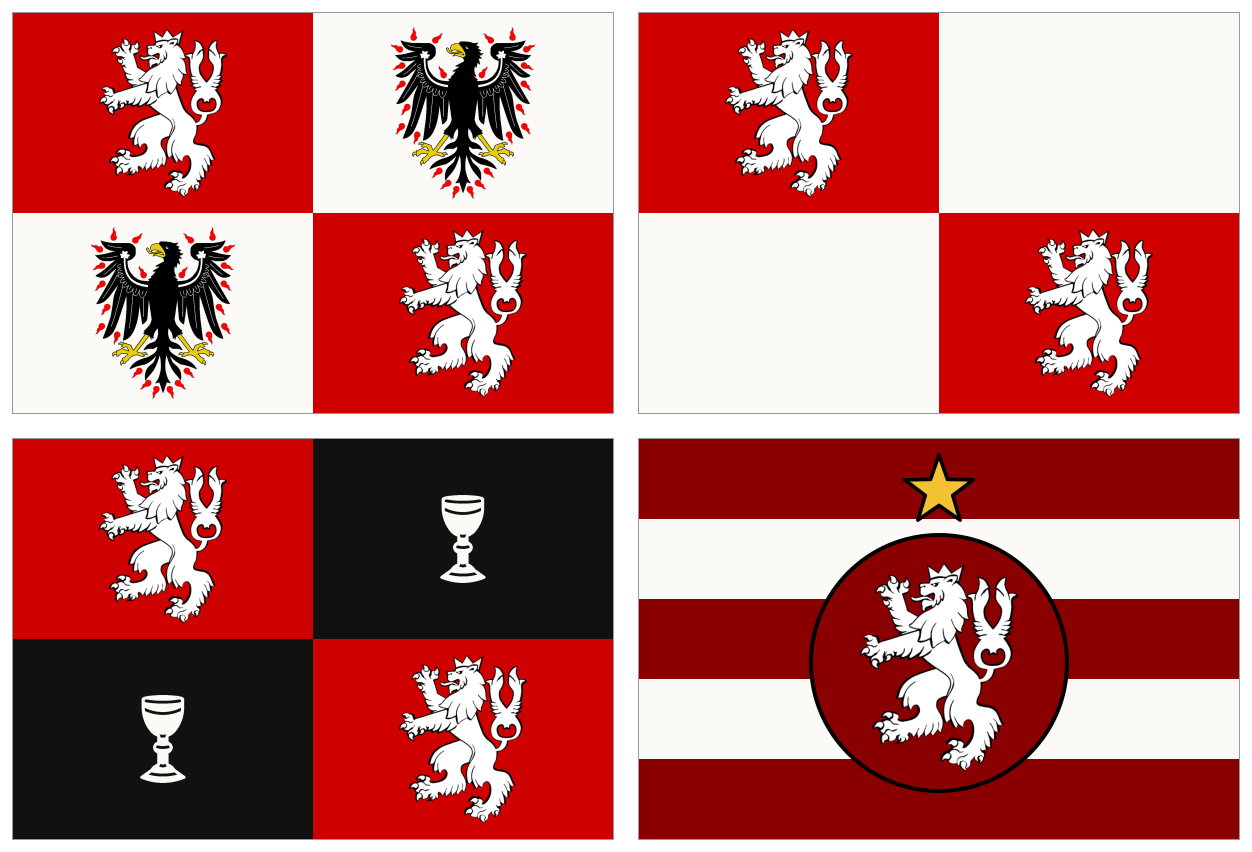
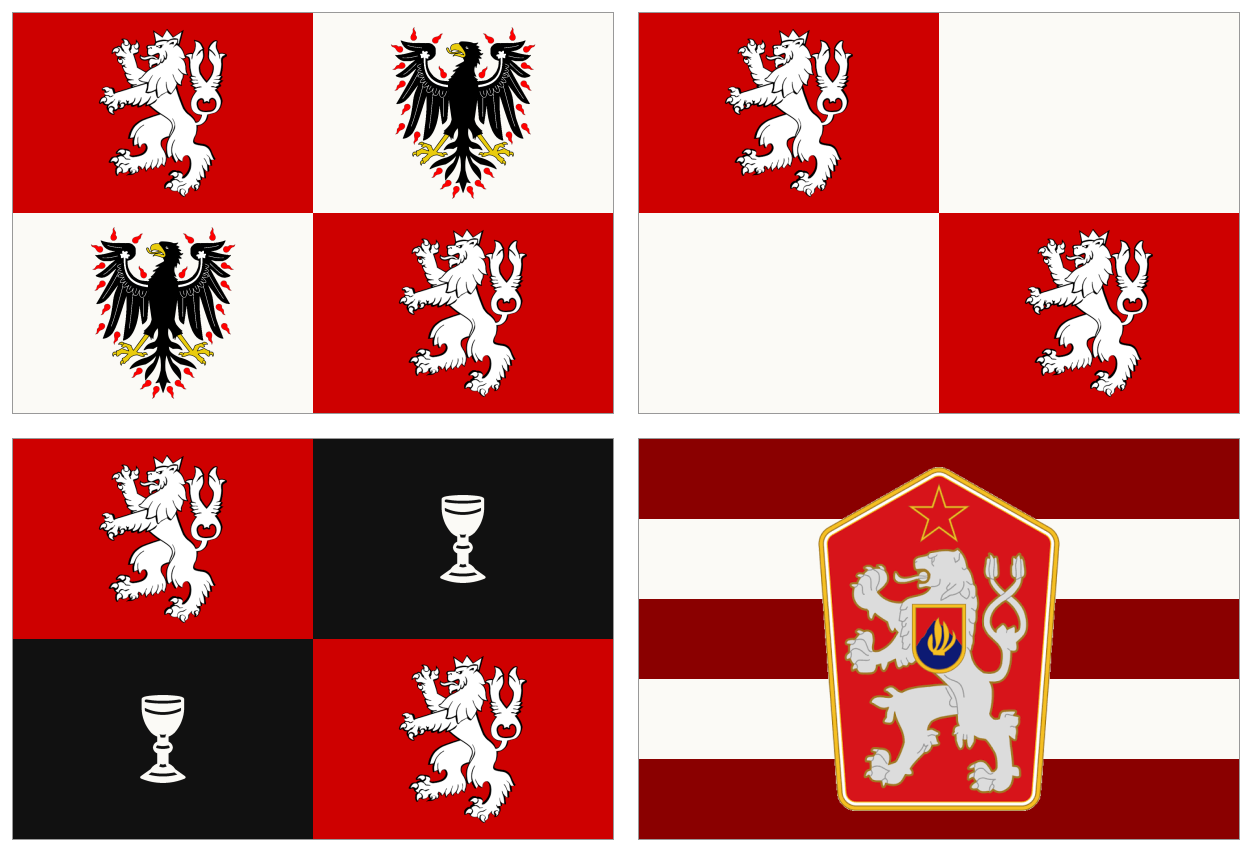
Czechy rewolucyjne: godło ludowe na pasach
Claude-Session: https://claude.ai/code/session_01PNyJEgjZDVeUSFrp2WbnmN

Changed region(s): [[0.623, 0.5188, 0.8722, 0.9765]]

diff --git a/gfx_koncepty/flagi_czechy/generuj_flagi.py b/gfx_koncepty/flagi_czechy/generuj_flagi.py
@@ -7,6 +7,7 @@ EMB=os.path.join(HERE,'..','emblematy')
 def b64(n): return base64.b64encode(open(os.path.join(EMB,n),'rb').read()).decode()
 LEW=b64('lew_czeski.png'); LW,LH=287,376
 ORZ=b64('orzel_swietowaclawski.png'); OW,OH=569,675
+GL=b64('godlo_czeskie_ludowe.png'); GLW,GLH=373,532
 KM=b64('kielich_maska_s.png'); KW,KH=300,581
 RED='#ce0000'; WHITE='#fbfaf6'; BLACK='#111111'
 def svg(b): return f'<svg xmlns="http://www.w3.org/2000/svg" viewBox="0 0 300 200" width="1536" height="1024">{b}</svg>'
@@ -33,8 +34,8 @@ F={
  # Teokracja husycka (Praga, kolebka Husa): szachownica z lwami na czerwieni, a zamiast orła biały kielich na czerni
  '3_teokracja': svg(kwadraty()+lew(75,50,84)+lew(225,150,84)+f'<rect x="150" width="150" height="100" fill="{BLACK}"/><rect y="100" width="150" height="100" fill="{BLACK}"/>'
                     +chalice(225,50,44,WHITE)+chalice(75,150,44,WHITE)),
- # Czechy rewolucyjne: pięć poziomych pasów czerwono-białych, złota gwiazda na środku
- '4_rewolucja': svg(''.join(f'<rect y="{i*40}" width="300" height="40" fill="{'#8a0000' if i%2==0 else WHITE}"/>' for i in range(5))+'<circle cx="150" cy="112" r="64" fill="#8a0000" stroke="#000000" stroke-width="2"/>'+lew(150,114,104)+star(150,26,18,'#f2c230').replace('/>',' stroke="#000000" stroke-width="1.8" stroke-linejoin="round"/>')),
+ # Czechy rewolucyjne: pięć poziomych pasów (ciemna czerwień i biel), na środku godło ludowe od autora moda (lew w tarczy z gwiazdą)
+ '4_rewolucja': svg(''.join(f'<rect y="{i*40}" width="300" height="40" fill="{'#8a0000' if i%2==0 else WHITE}"/>' for i in range(5))+img(GL,GLW,GLH,150,100,172)),
 }
 for k,v in F.items():
     p=os.path.join(HERE,k+'.svg'); open(p,'w').write(v)

diff --git a/gfx_koncepty/flagi_czechy/README.md b/gfx_koncepty/flagi_czechy/README.md
@@ -9,4 +9,4 @@ Czechy praskich Przemyślidów: husyckie lenno Moraw, rywal Welehradu w koronie 
 | 1_ksiestwo | Księstwo (start, Przemyślidzi): lwy na czerwieni, orły św. Wacława na bieli |
 | 2_republika | Republika: ta sama szachownica, same lwy (orzeł św. Wacława to znak dynastii) |
 | 3_teokracja | Teokracja husycka: lwy na czerwieni, białe pola zamienione na czarne z białym kielichem |
-| 4_rewolucja | Czechy rewolucyjne: pięć poziomych pasów (ciemna czerwień i biel), na środku ciemnoczerwone koło z lwem, nad nim złota gwiazda w czarnym konturze |
+| 4_rewolucja | Czechy rewolucyjne: pięć poziomych pasów (ciemna czerwień i biel), na środku godło ludowe: lew w tarczy z czerwoną gwiazdą ([../emblematy/godlo_czeskie_ludowe.png](../emblematy/godlo_czeskie_ludowe.png), od autora moda) |
